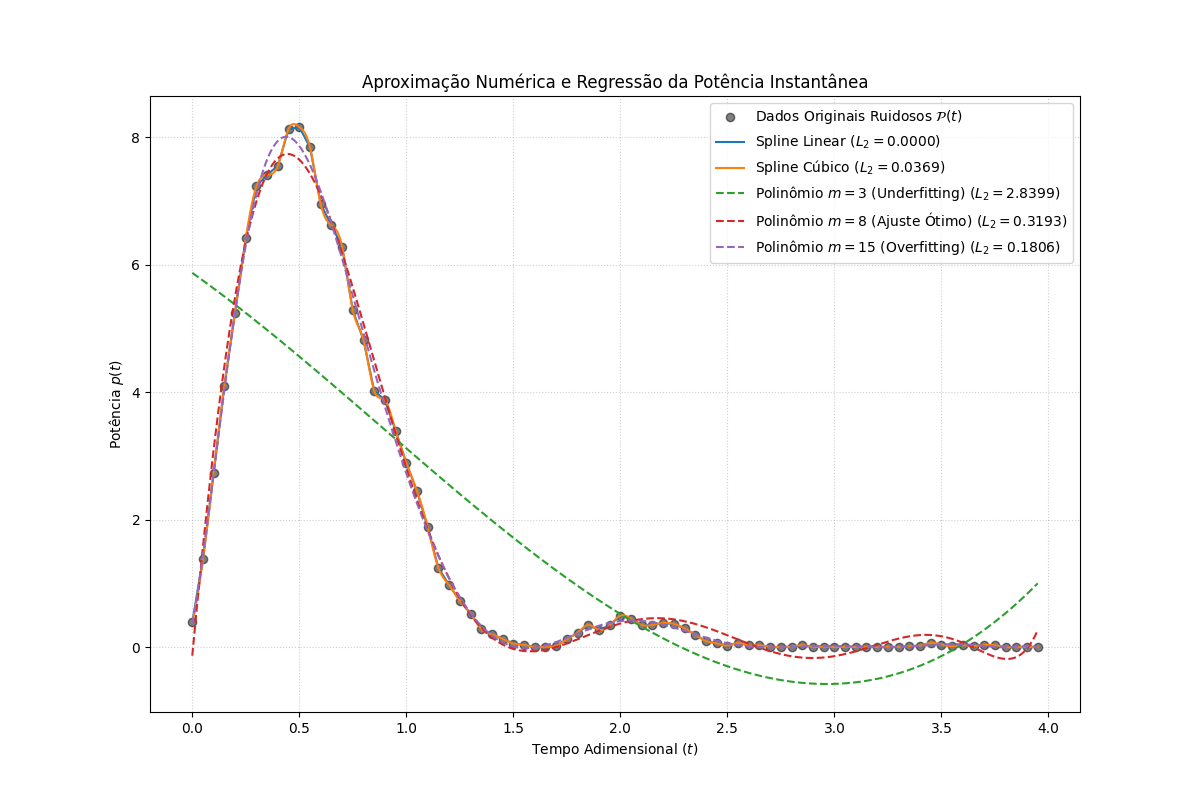
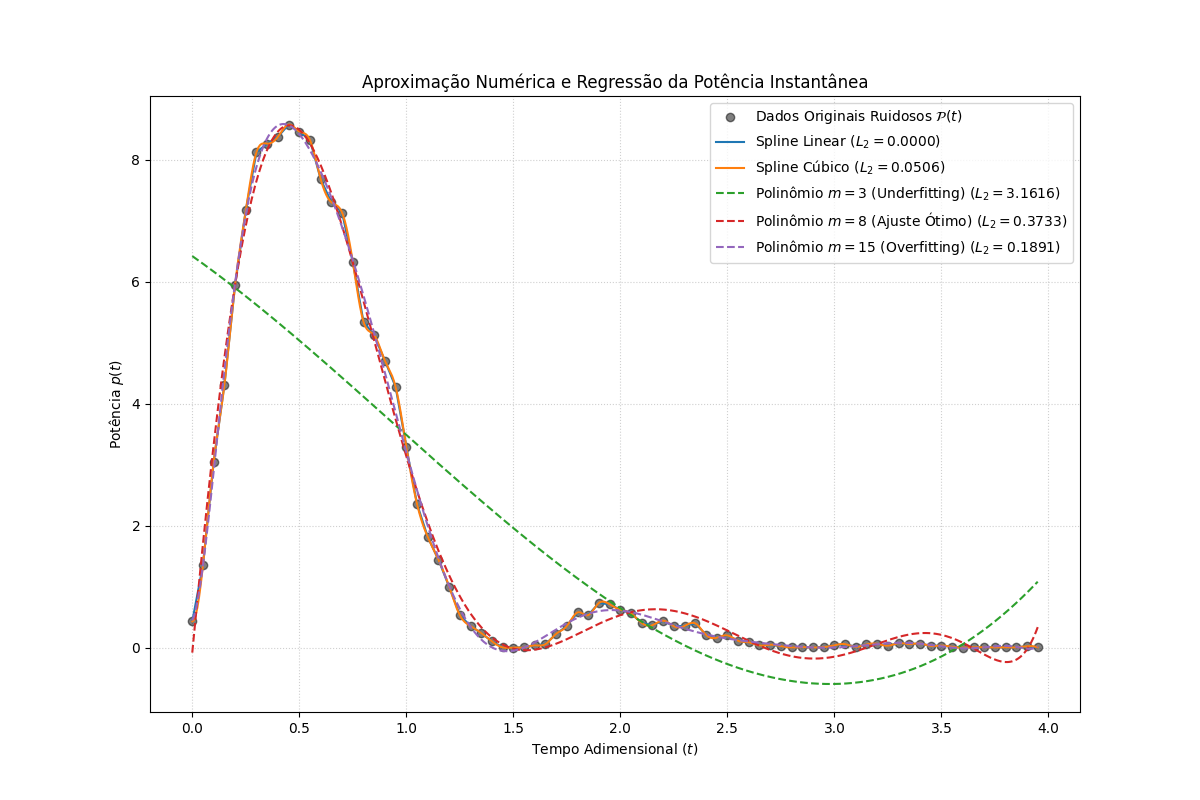
txt

diff --git a/src/classes/gemeo_digital.py b/src/classes/gemeo_digital.py
@@ -600,8 +600,8 @@ if __name__ == "__main__":
     # gd.ex_1_1()
     # gd.ex_1_2()
     # gd.ex_2()
-    gd.ex_3_1()
-    # gd.ex_3_2()
+    # gd.ex_3_1()
+    gd.ex_3_2()
 
     hist, _ = gd.solver_transiente(0.01, 4.0)
     plot_potencia(hist)